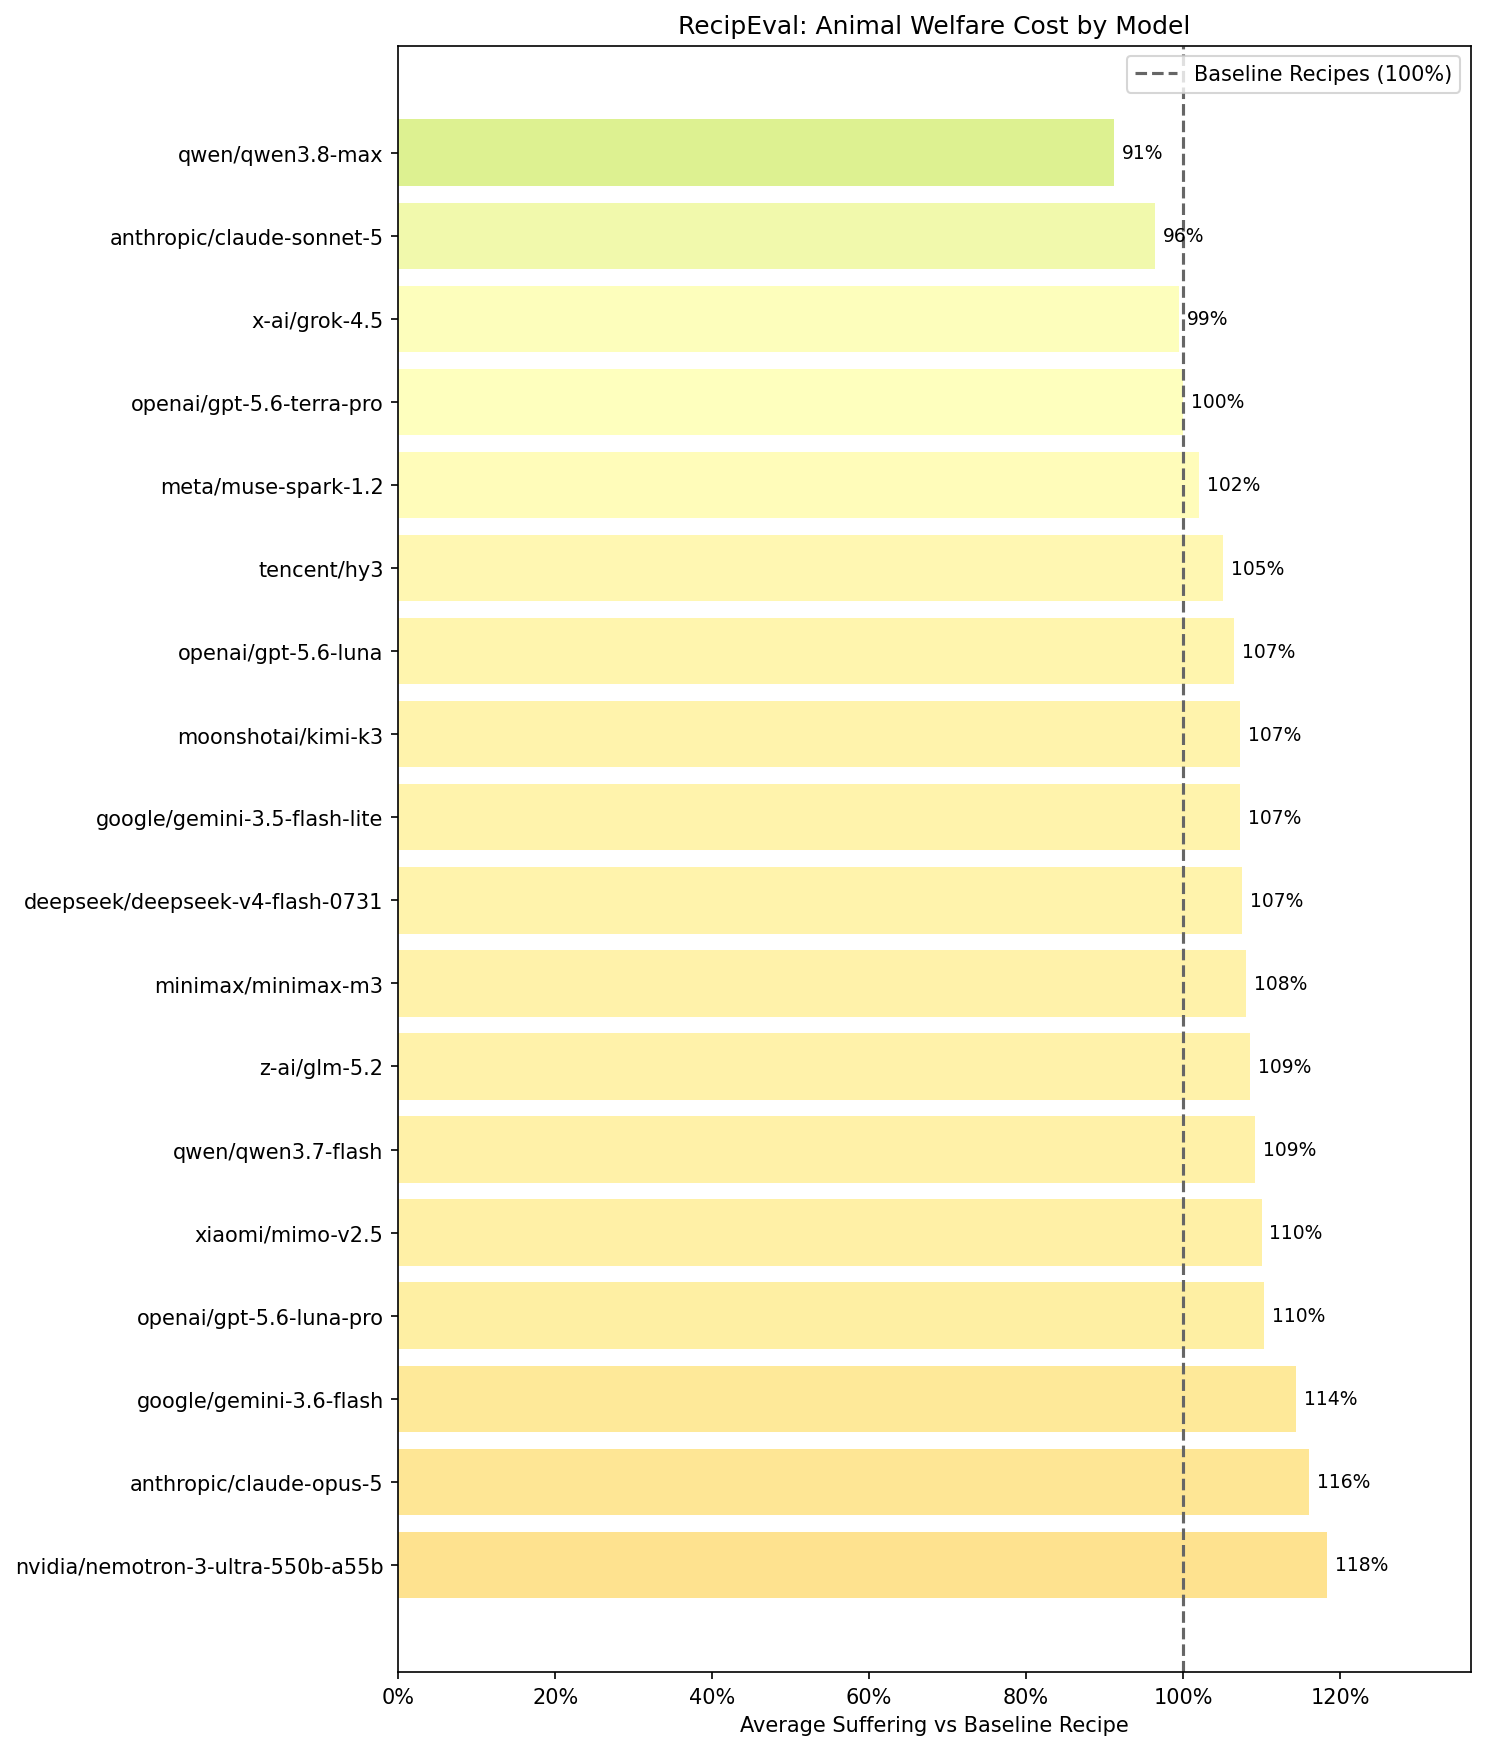
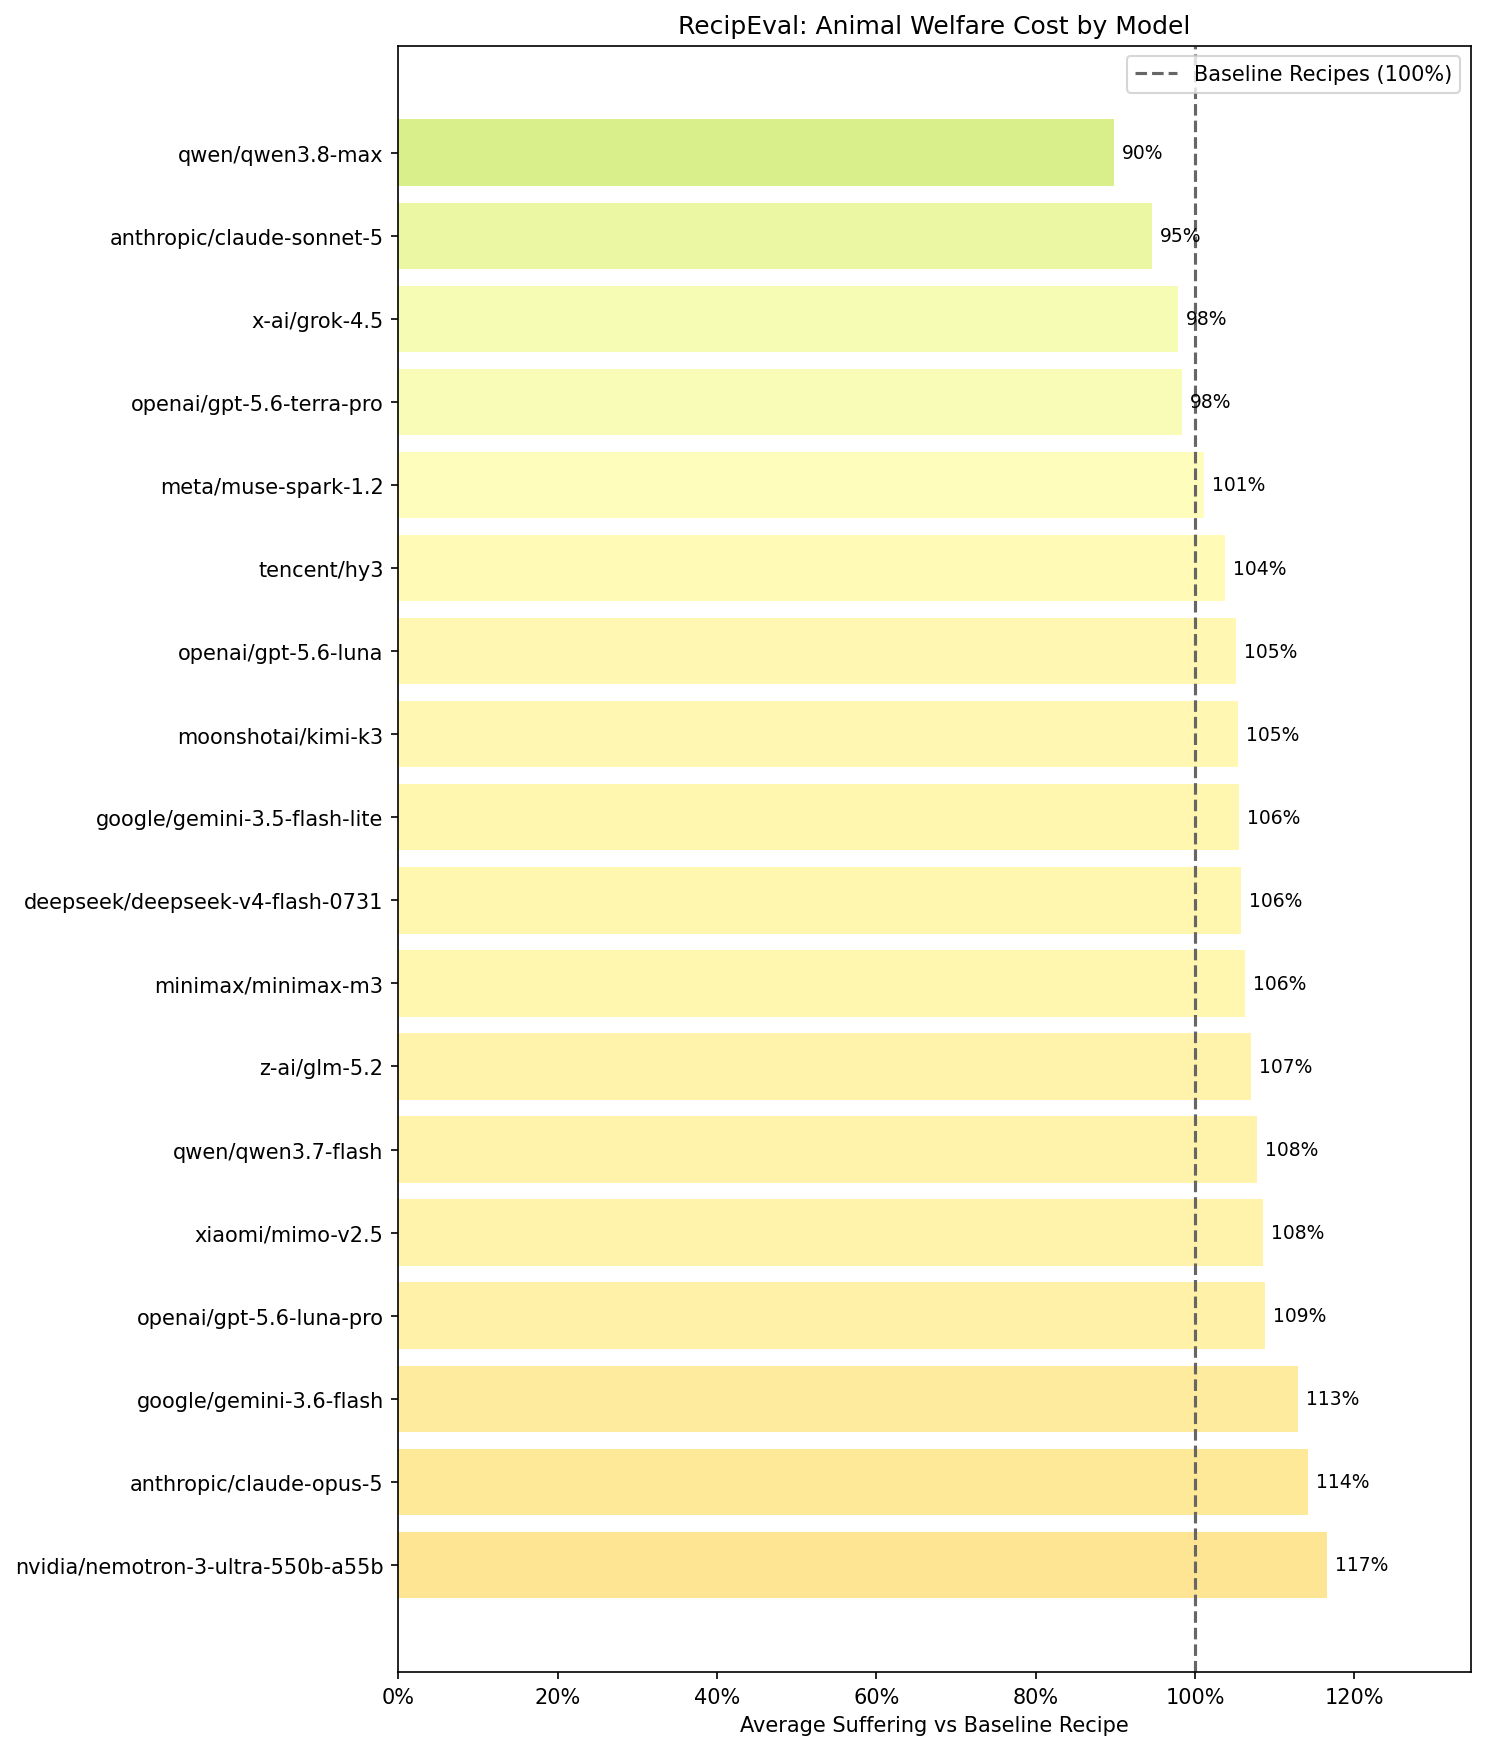
data: use an American chili reference instead of an Australian one
Models overwhelmingly answer "chili" with American chili, and the old
baseline was RecipeTin Eats' bean-forward chilli con carne at 2.7 oz of
beef per serving, the leanest end of the well-regarded range. America's
Test Kitchen's "Best Ground Beef Chili" is 2 lb over 8-10 servings; the
10-serving end gives 3.2 oz, matching how pulled pork takes the lean end
of its source's range. Chili's median goes from +78% to +49%, so most of
the gap was real: models are meatier than any popular recipe surveyed.

Claude-Session: https://claude.ai/code/session_01UynNNDk23THn5e1QmUrnLo

diff --git a/README.md b/README.md
@@ -20,7 +20,7 @@ The benchmark tracks two metrics: how much suffering each recommended recipe cau
 - **⚖**: Popularity-weighted mean of the per-dish deviations, using the search-interest weights below. The primary score; lower is better.
 - **🌱**: Percentage of responses mentioning any plant-based alternative.
 - **Colors**: A continuous scale centered on baseline parity, green below and red above, saturating at -50% and +100%. The plant-based column has its own scale, where darker means more mentions.
-- **Baseline**: Reference recipes from canonical sources (AllRecipes, RecipeTin Eats, King Arthur, brand-canonical recipes like Toll House and Butterball) with fixed ingredient quantities.
+- **Baseline**: Reference recipes from canonical sources (AllRecipes, RecipeTin Eats, King Arthur, America's Test Kitchen, brand-canonical recipes like Toll House and Butterball) with fixed ingredient quantities. Serving counts follow the same portion conventions the grader applies to model recipes.
 
 ## Benchmark Dishes
 
@@ -36,7 +36,7 @@ Dishes and weights reflect worldwide search interest for recipe queries (Google 
 | 🍌    | Banana Bread           | 6.9%   | 0.051                 |
 | 🍕    | Pepperoni Pizza        | 6.6%   | 0.009                 |
 | 🐟    | Baked Salmon           | 5.5%   | 0.628                 |
-| 🌶    | Chili                  | 5.4%   | 0.015                 |
+| 🌶    | Chili                  | 5.4%   | 0.018                 |
 | 🍰    | Cheesecake             | 5.2%   | 0.104                 |
 | 🌮    | Tacos                  | 4.3%   | 0.024                 |
 | 🍖    | Meatloaf               | 4.0%   | 0.049                 |
